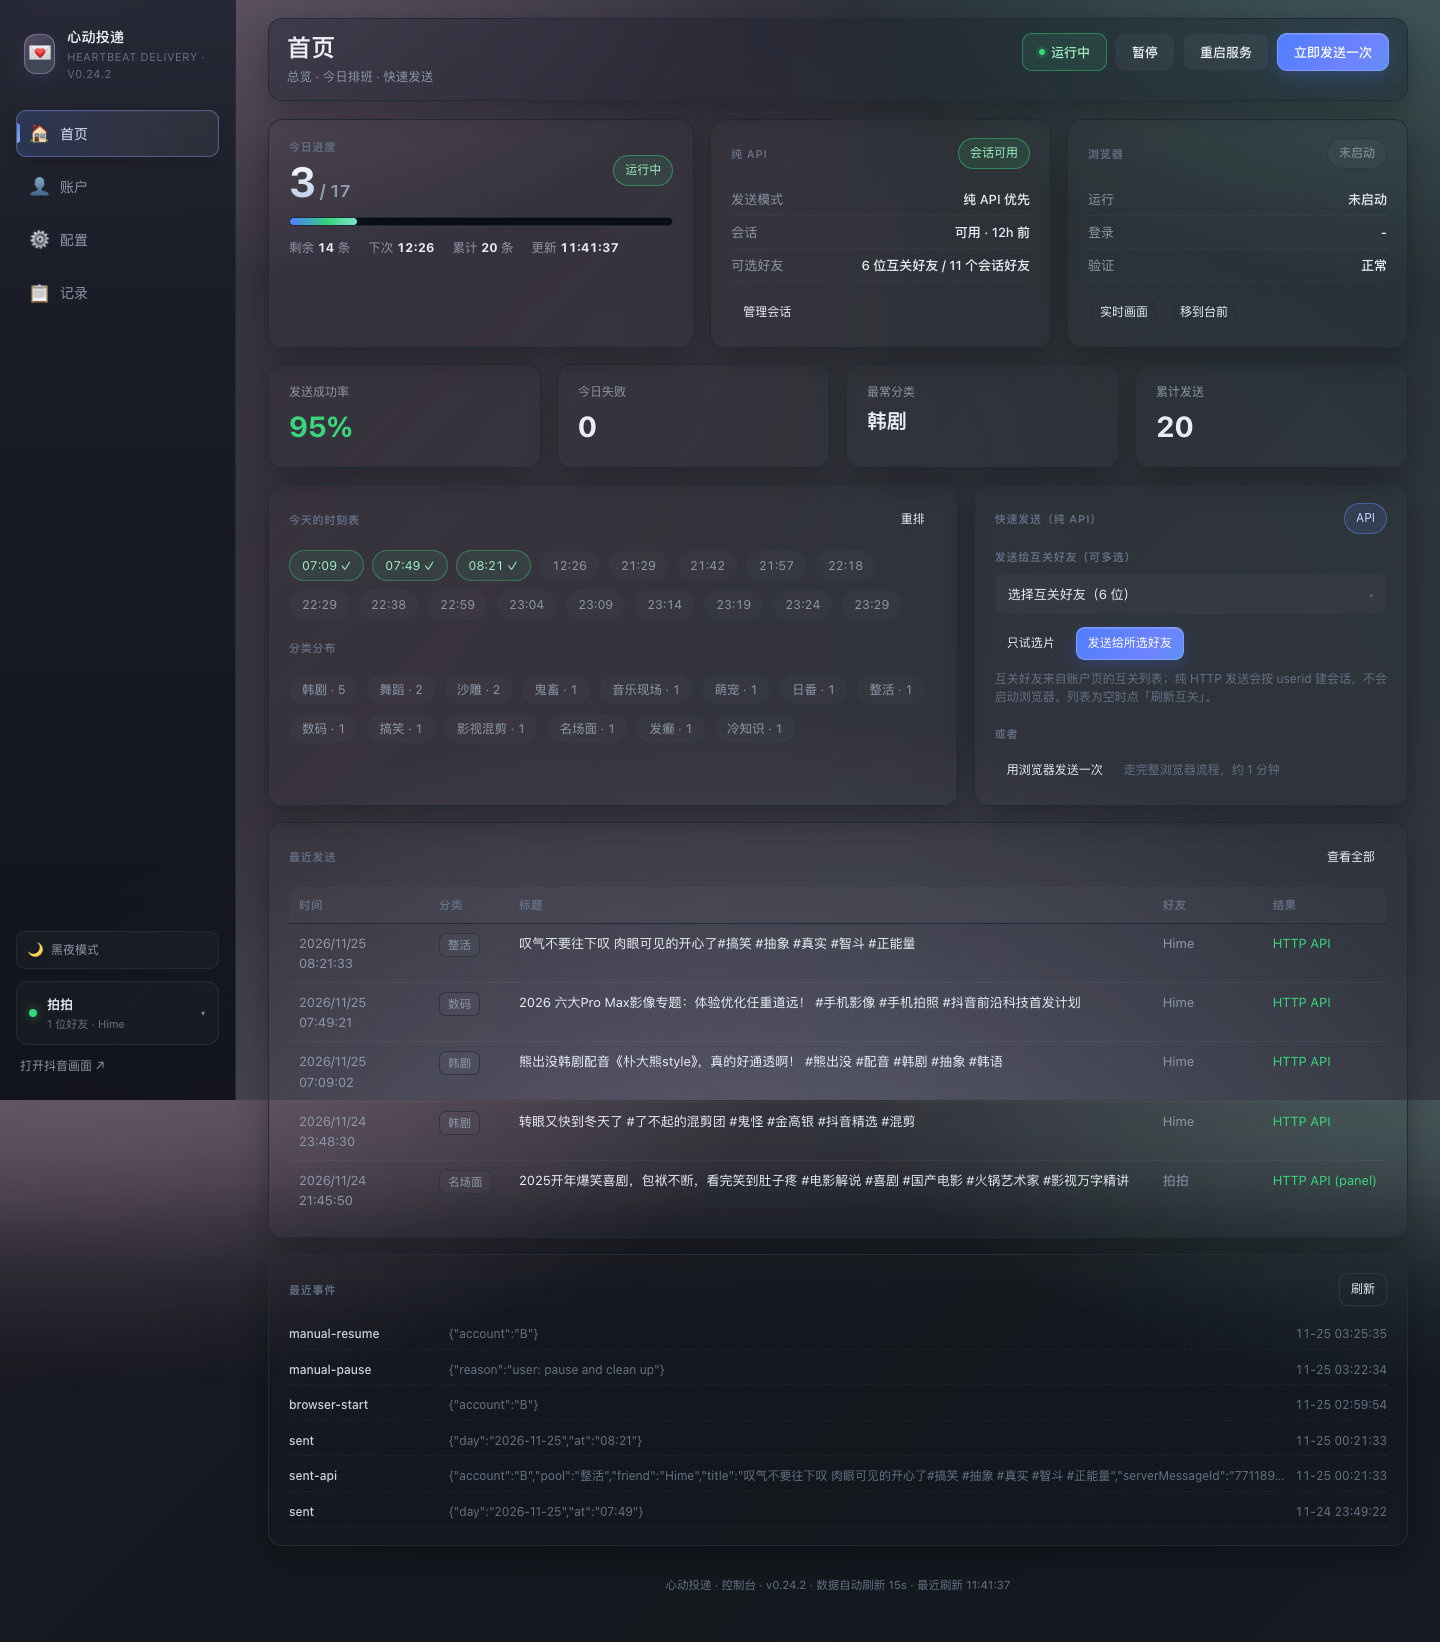
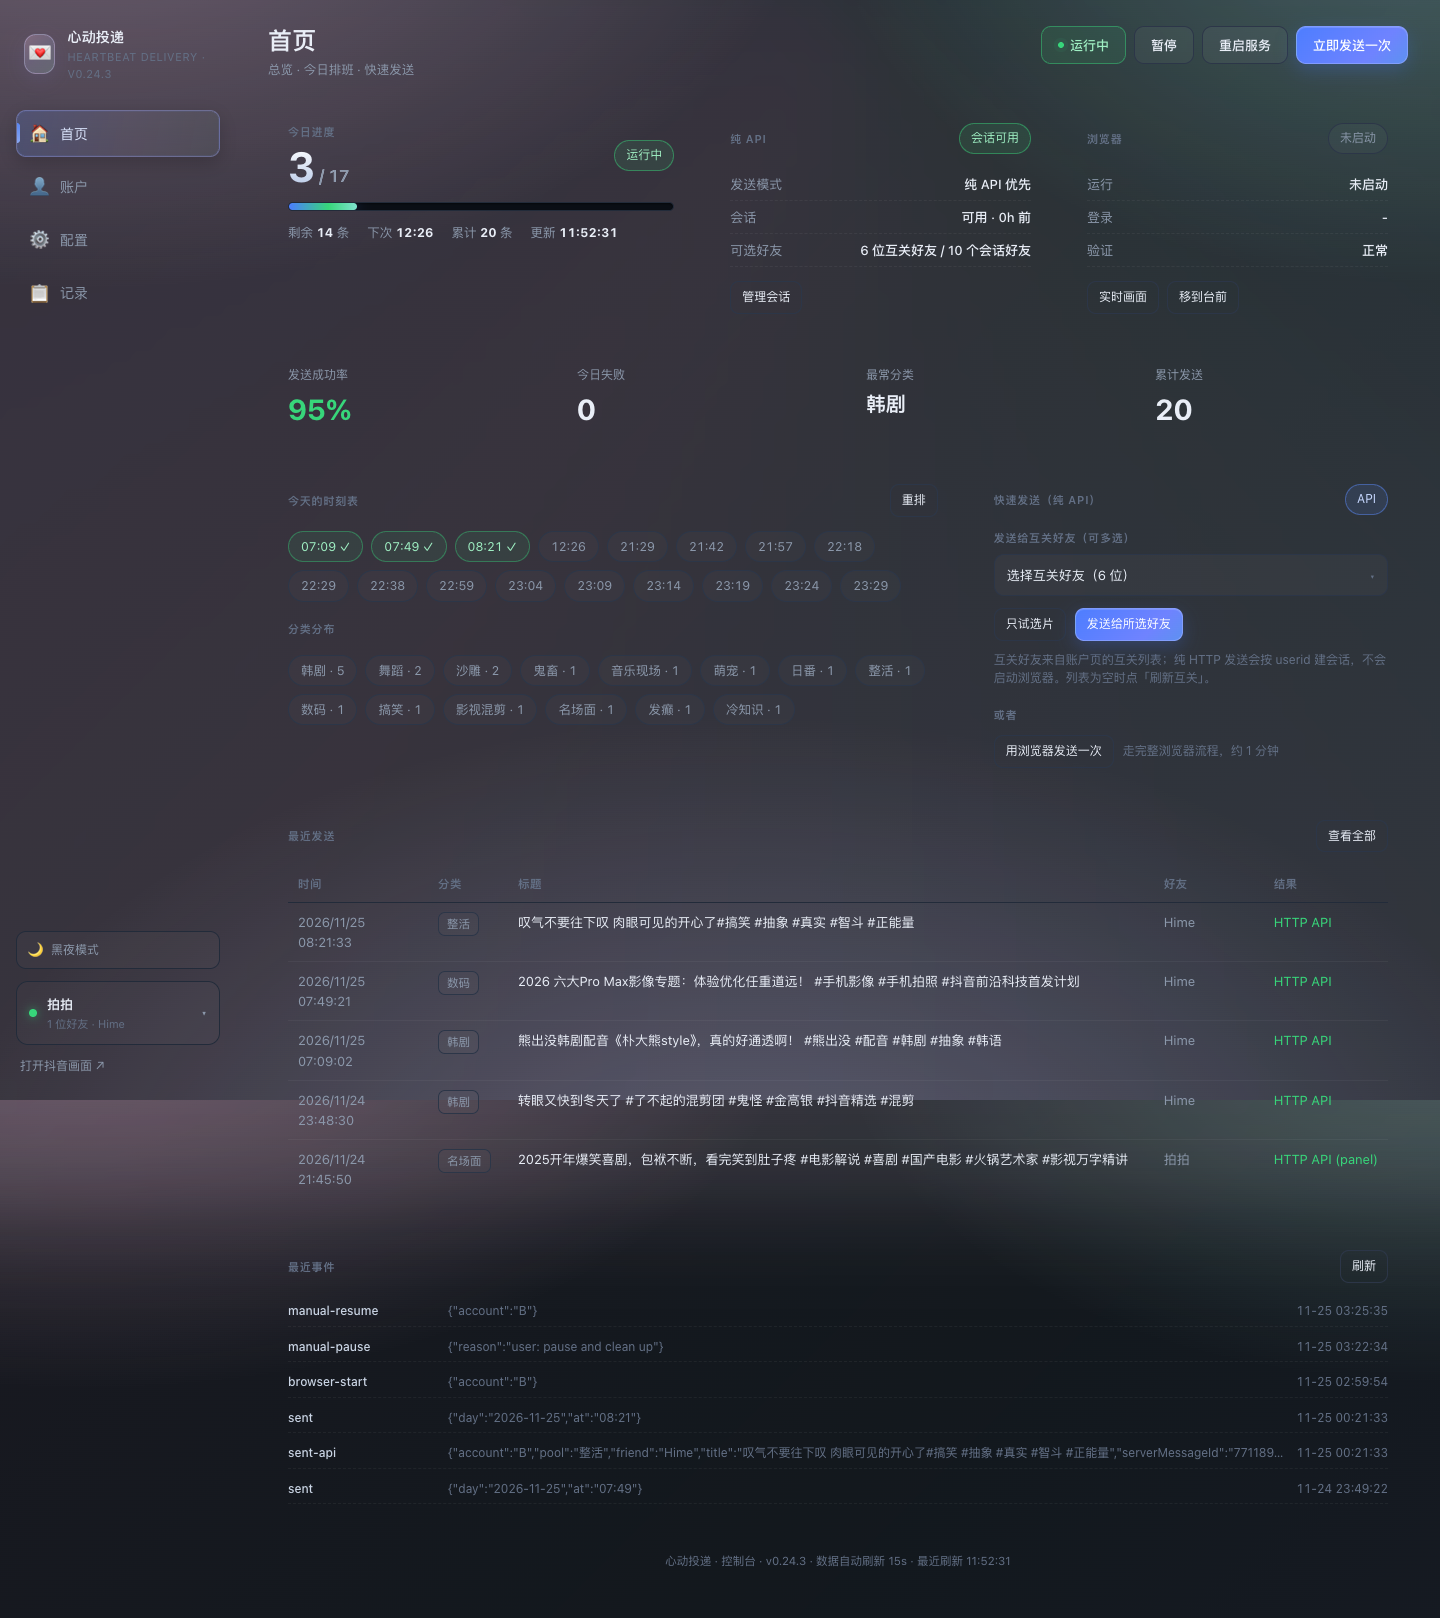
fix(ui): 统一贝母底并取消卡片分界(0.24.3)

diff --git a/src/page.html b/src/page.html
@@ -26,8 +26,7 @@
 
   /* sidebar */
   .sidebar{width:236px;flex:0 0 236px;position:sticky;top:0;height:100vh;display:flex;flex-direction:column;gap:26px;
-    padding:24px 16px;background:linear-gradient(180deg,rgba(19,25,37,.72),rgba(11,14,20,.84));
-    backdrop-filter:blur(22px);-webkit-backdrop-filter:blur(22px);border-right:1px solid var(--line)}
+    padding:24px 16px;background:transparent;border-right:0;backdrop-filter:none;-webkit-backdrop-filter:none}
   .brand{display:flex;align-items:center;gap:12px;padding:2px 8px}
   .logo{width:40px;height:40px;border-radius:12px;display:grid;place-items:center;font-size:20px;
     background:linear-gradient(135deg,rgba(255,196,230,.24),rgba(198,202,255,.18) 48%,rgba(184,255,238,.16));
@@ -126,9 +125,9 @@
   .top-actions .pill.bad::before{background:var(--bad);opacity:1}
 
   /* cards / layout */
-  .card{background:transparent;
-    border:1px solid var(--line);border-radius:var(--r);
-    padding:18px 20px;box-shadow:var(--shadow);min-width:0}
+  .card{background:transparent;border:0;border-radius:0;
+    padding:18px 20px;box-shadow:none;min-width:0}
+  details.card{border:0;border-radius:0;background:transparent;box-shadow:none}
   .card.pad-sm{padding:14px 16px}
   .card-head{display:flex;align-items:center;justify-content:space-between;gap:12px;margin-bottom:14px}
   .eyebrow{font-size:11px;letter-spacing:.8px;text-transform:uppercase;color:var(--dim2);font-weight:600}
@@ -162,10 +161,10 @@
   /* timeline */
   .timeline-wrap{display:flex;flex-wrap:wrap;gap:8px;max-height:118px;overflow:auto;padding-right:4px}
   /* table */
-  .table-wrap{overflow:auto;border-radius:12px;border:1px solid var(--line)}
+  .table-wrap{overflow:auto;border-radius:0;border:0}
   table{width:100%;border-collapse:collapse;font-size:13px}
   th{text-align:left;color:var(--dim2);font-weight:600;font-size:11.5px;letter-spacing:.4px;text-transform:uppercase;
-    border-bottom:1px solid var(--line);padding:11px 12px;background:rgba(255,255,255,.02);position:sticky;top:0}
+    border-bottom:1px solid var(--line);padding:11px 12px;background:transparent;position:static}
   td{border-bottom:1px solid rgba(255,255,255,.045);padding:11px 12px;vertical-align:top}
   tr:last-child td{border-bottom:0}
   tbody tr:hover td{background:rgba(91,140,255,.04)}
@@ -319,14 +318,12 @@
       conic-gradient(from 215deg at 58% 8%,rgba(255,205,234,.16),rgba(198,202,255,.13),rgba(184,255,238,.11),rgba(255,205,234,.16));
     filter:blur(46px);opacity:.95}
 
-  .topbar{position:sticky;top:0;z-index:20;padding:14px 18px;margin:-8px 0 18px;
-    background:rgba(20,27,40,.34);border:1px solid var(--line);border-radius:var(--r);
-    backdrop-filter:blur(22px) saturate(1.12);-webkit-backdrop-filter:blur(22px) saturate(1.12);
-    box-shadow:var(--shadow)}
+  .topbar{position:static;z-index:auto;padding:0 0 8px;margin:0 0 18px;
+    background:transparent;border:0;border-radius:0;backdrop-filter:none;box-shadow:none}
   .topbar::after{display:none}
 
   .card{transition:border-color .22s ease,box-shadow .22s ease,transform .22s ease,background .22s ease;overflow:hidden}
-  .card:hover{border-color:rgba(91,140,255,.24);box-shadow:0 14px 40px rgba(0,0,0,.34),0 0 0 1px rgba(91,140,255,.05)}
+  .card:hover{border-color:transparent;box-shadow:none}
   .hero-card{position:relative}
 
   .hero-num{background:linear-gradient(180deg,#ffffff,#b9cae8);-webkit-background-clip:text;background-clip:text;color:transparent}
@@ -367,7 +364,6 @@
   .tag:hover{border-color:rgba(91,140,255,.35);color:#cfdcf2}
 
   .table-wrap{background:transparent}
-  th{backdrop-filter:blur(10px)}
   tbody tr{transition:background .15s ease}
   tbody tr:hover td{background:rgba(91,140,255,.055)}
 
@@ -411,7 +407,7 @@
   html[data-theme="light"] ::-webkit-scrollbar-thumb{background:#c5d0e0;border:2px solid transparent;background-clip:content-box}
   html[data-theme="light"] ::-webkit-scrollbar-thumb:hover{background:#aebccf;background-clip:content-box}
 
-  html[data-theme="light"] .sidebar{background:linear-gradient(180deg,rgba(255,255,255,.76),rgba(247,249,253,.8));border-right-color:var(--line);box-shadow:8px 0 28px rgba(31,53,89,.04)}
+  html[data-theme="light"] .sidebar{background:transparent;border-right-color:transparent;box-shadow:none}
   html[data-theme="light"] .logo{background:linear-gradient(135deg,rgba(255,198,228,.5),rgba(205,208,255,.4) 48%,rgba(188,246,232,.45));border-color:rgba(180,172,230,.4);box-shadow:0 6px 18px rgba(150,140,200,.12)}
   html[data-theme="light"] .brand-sub{color:var(--dim2)}
   html[data-theme="light"] .nav-item{color:var(--dim)}
@@ -429,10 +425,10 @@
   html[data-theme="light"] .side-theme:hover{background:rgba(247,249,253,.7);color:var(--txt);border-color:var(--line2)}
   html[data-theme="light"] .side-link{color:var(--dim)}
 
-  html[data-theme="light"] .topbar{background:rgba(255,255,255,.34);border-color:rgba(255,255,255,.62);box-shadow:var(--shadow)}
-  html[data-theme="light"] .card{background:transparent;border-color:rgba(255,255,255,.42);box-shadow:0 8px 24px rgba(31,53,89,.04)}
-  html[data-theme="light"] details.card.mutual-card{background:transparent;border-color:rgba(255,255,255,.42)}
-  html[data-theme="light"] .card:hover{border-color:rgba(47,107,255,.3);box-shadow:0 16px 36px rgba(31,53,89,.10),0 0 0 1px rgba(47,107,255,.04)}
+  html[data-theme="light"] .topbar{background:transparent;border-color:transparent;box-shadow:none}
+  html[data-theme="light"] .card{background:transparent;border-color:transparent;box-shadow:none}
+  html[data-theme="light"] details.card.mutual-card{background:transparent;border-color:transparent}
+  html[data-theme="light"] .card:hover{border-color:transparent;box-shadow:none}
   html[data-theme="light"] .hero-num{background:linear-gradient(180deg,#1b2638,#526480);-webkit-background-clip:text;background-clip:text;color:transparent}
   html[data-theme="light"] .progress{background:#e8eef7;border-color:#dce5f1;box-shadow:inset 0 1px 2px rgba(31,53,89,.08)}
 
@@ -474,8 +470,8 @@
   html[data-theme="light"] details{background:transparent;border-color:var(--line)}
   html[data-theme="light"] details:hover{border-color:rgba(47,107,255,.22)}
 
-  html[data-theme="light"] .table-wrap{background:transparent;border-color:var(--line)}
-  html[data-theme="light"] th{background:#f7f9fd;border-bottom-color:var(--line);color:var(--dim2)}
+  html[data-theme="light"] .table-wrap{background:transparent;border-color:transparent}
+  html[data-theme="light"] th{background:transparent;border-bottom-color:var(--line);color:var(--dim2)}
   html[data-theme="light"] td{border-bottom-color:#eef2f8}
   html[data-theme="light"] tbody tr:hover td{background:rgba(47,107,255,.045)}
   html[data-theme="light"] .account-row{background:rgba(255,255,255,.12);border-color:var(--line)}

diff --git a/CHANGELOG.md b/CHANGELOG.md
@@ -1,5 +1,15 @@
 # Changelog
 
+## 0.24.3 — 2026-11-25
+
+- **彻底取消卡片容器外观**:移除卡片的填充、边框、圆角和阴影，卡片只作为布局容器；
+  页面级贝母背景成为唯一表面，滚动时不会再出现被卡片矩形切开的区域。
+- **顶栏改为普通页头**:不再使用粘性玻璃卡片，去掉悬浮条和背景层，滚动时不会出现顶部覆盖带。
+- 表格容器、表头、折叠区去掉独立底色；表格只保留行分隔线，顶栏/内容/表格共享同一层渐变。
+- 侧栏也改为透明，取消与主内容之间的白色/深色竖条；整页共享同一层贝母背景。
+- 发送计划、账户页、记录页同步适配；操作按钮、输入框、账户行仍保留必要的可点击表面。
+
+
 ## 0.24.2 — 2026-11-25
 
 - **去掉卡片填充和 backdrop-filter**:滚动时不再出现矩形色块或模糊边界；卡片只保留边框/阴影，

diff --git a/docs/ui.md b/docs/ui.md
@@ -1,7 +1,8 @@
 # 控制台
 
 面板地址：`http://127.0.0.1:9400`（应用主窗口默认打开的就是它）。侧栏品牌名和页面底部显示当前版本号，
-与安装包 `package.json` 的版本一致。
+与安装包 `package.json` 的版本一致。控制台使用统一的页面级贝母背景，卡片只作为布局容器，
+不再有独立底色/边框；顶部为普通页头。
 
 ## 白天 / 黑夜模式
 
@@ -12,7 +13,7 @@
 
 ## 首页
 
-今日进度、纯 API 会话、浏览器状态三块卡片；发送成功率/今日失败/最常分类/累计发送；
+今日进度、纯 API 会话、浏览器状态三个区块；发送成功率/今日失败/最常分类/累计发送；
 今天的时刻表、分类分布；快速发送（互关好友下拉多选 → 只试选片 / 发送）；最近发送与最近事件；
 可展开「实时画面」扫码或点验证码。
 

diff --git a/docs/optimization-plan.md b/docs/optimization-plan.md
@@ -361,6 +361,7 @@ CI 只跑 5 个旧测试文件，新增的 `friend-picker`、`video-picker`、`p
 - 全局贝母氛围 + 账户页简化重排（0.24.0）。
 - 头部玻璃条、卡片与背景贝母色贯通、移动端两行导航（0.24.1）。
 - 去掉卡片填充/滚动色块，贝母色直接穿过卡片（0.24.2）。
+- 卡片完全无边框/阴影，顶栏改为普通页头，彻底消除滚动分割（0.24.3）。
 
 以下建议明确**不采用**：
 
